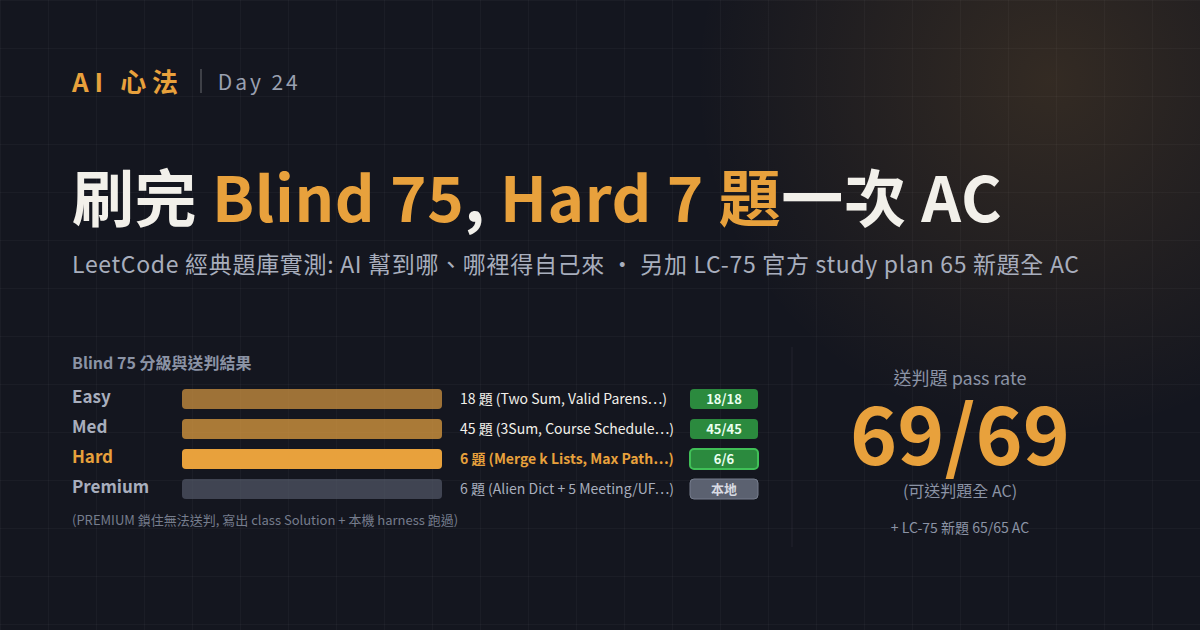
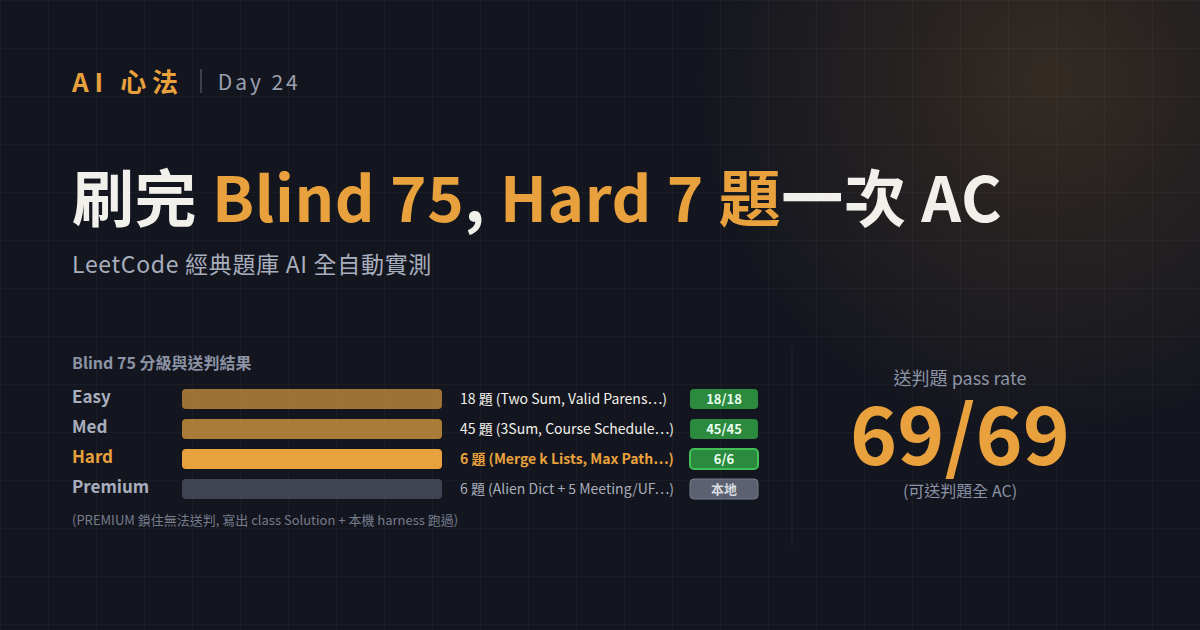
ironman: Day 24 cover 文案收斂
副標改成「LeetCode 經典題庫 AI 全自動實測」, 右半 hero 下方拿掉 LC-75 那行, 聚焦 Blind 75.

Changed region(s): [[0.2158, 0.3921, 0.8942, 0.4524], [0.74, 0.8143, 0.8633, 0.8444]]

diff --git a/05-notes/ironman/assets/cover-day24.html b/05-notes/ironman/assets/cover-day24.html
@@ -24,7 +24,7 @@ text{font-family:"Noto Sans CJK TC",sans-serif}
   <div class="top"><span class="mark">AI 心法</span><span class="bar"></span><span class="day">Day 24</span></div>
   <div>
     <h1>刷完 <em>Blind 75</em>, <em>Hard 7 題</em>一次 AC</h1>
-    <div class="sub">LeetCode 經典題庫實測: AI 幫到哪、哪裡得自己來 · 另加 LC-75 官方 study plan 65 新題全 AC</div>
+    <div class="sub">LeetCode 經典題庫 AI 全自動實測</div>
   </div>
   <div class="chartwrap">
   <svg width="1056" height="210" viewBox="0 0 1056 210">
@@ -68,7 +68,6 @@ text{font-family:"Noto Sans CJK TC",sans-serif}
     <text x="888" y="38" fill="#8b93a5" font-size="18" text-anchor="middle">送判題 pass rate</text>
     <text x="888" y="118" fill="#e8a13c" font-size="80" font-weight="900" text-anchor="middle">69/69</text>
     <text x="888" y="150" fill="#8b93a5" font-size="16" text-anchor="middle">(可送判題全 AC)</text>
-    <text x="888" y="186" fill="#8b93a5" font-size="14" text-anchor="middle">+ LC-75 新題 65/65 AC</text>
   </svg>
   </div>
 </div></body></html>
